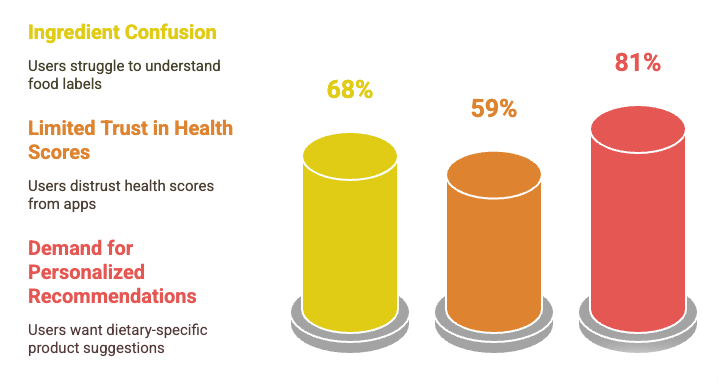
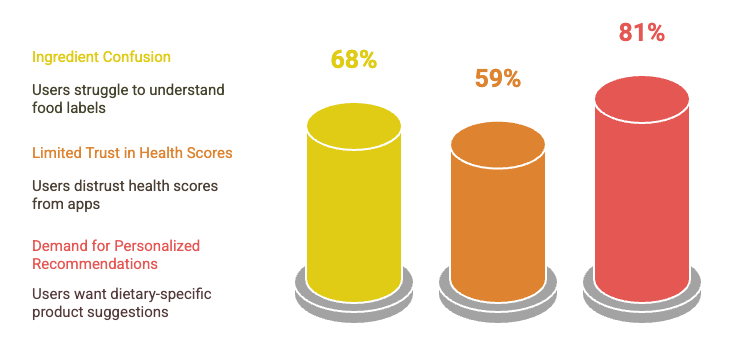
commit

diff --git a/orbitscan.html b/orbitscan.html
@@ -88,7 +88,7 @@
 
         
         <div class="header-content">
-            <h1>ORBIT SCAN</h1>
+            <h1 style="font-size: 40px; font-family:Verdana, Geneva, Tahoma, sans-serif">ORBIT SCAN</h1>
             <h3> Helping shoppers make smarter food choices with a quick barcode scan.</h3>
             <p><strong>Timeline - </strong> 3 months</p>
             <p class="tools"><strong>Tools - </strong>Figma, Photoshop, Google Forms</p>
@@ -105,7 +105,7 @@
         
 
         <section class="overview">
-            <h2 style="font-size: 36px;">Background</h2>
+            <h2 style="font-size: 36px;">BACKGROUND</h2>
             
             <section style="display: flex; flex-wrap: wrap; align-items: flex-start; justify-content: space-between; gap: 1rem;">
 
@@ -132,22 +132,24 @@
             
 
         <section class="the-problem">
-            <h2 style="font-size: 36px;">The Problem</h2>
+            <h2 style="font-size: 36px;">THE PROBLEM</h2>
         
-                <p><strong>Ever stood in a grocery aisle, feeling overwhelmed by:</strong></p> 
-               
+              
+<h4 style="font-size: 30px;">Ever stood in a grocery aisle, feeling overwhelmed by:</h4> 
                     <li>Confusing ingredient lists? </li>
                     <li>Hard-to-read nutrition labels?</li>
                     <li>Spent time Googling food additives, but still unsure if a product is right for you or your family?</li>
                     <li>For many shoppers especially those with dietary restrictions, making informed choices quickly is a daily challenge.</li>
        
-                    <h3 style="font-size: 20px;">SOLUTION</h3>
+                    
+<h4 style="font-size: 30px;">Solution</h4>
                 <p>OrbitScan was created to solve this problem by:</p> 
                 <li>Allowing users to scan any food product.</li>
                 <li>Instantly delivering clear, easy-to-understand health insights and recommendations</li>
                 <li>The app turns complex nutritional data into simple, actionable guidance.</li>
                 
-                <h3 style="font-size: 24px;">PROJECT GOAL</h3>
+               
+<h4 style="font-size: 30px;">Project Goal</h4>
                 
                 <p class="read-more-paragraph">
                 The goal of this project was to design a mobile app that helps people quickly understand what’s in the food products they buy while grocery shopping. 
@@ -163,7 +165,7 @@
         </section>
 
         <section class="our-approach">
-            <h2 style="font-size: 36px;">🔷 Design Process: Double Diamond Framework</h2>
+            <h2 style="font-size: 36px;">🔷 DESIGN PROCESS: Double Diamond Framework</h2>
 
             <p>I used the Double Diamond approach to keep my design process user-focused and aligned with solving actual user pain points.</p>
             <div class="header-image">
@@ -240,7 +242,7 @@
 
         <h1 style="color: grey;">🔍 Discover</h1>
 
-        <h2 style="font-size: 36px;">📝 Quantitative Research (Survey Insights)</h2>
+        <h2 style="font-size: 36px;">📝 QUANTITATIVE RESEARCH (Survey Insights)</h2>
         
         <section style="display: flex; flex-wrap: wrap; align-items: flex-start; justify-content: space-between; gap: 1rem;">
 
@@ -270,12 +272,12 @@
             
               <!-- Image Right -->
               <div>
-                <img src="assets/img/Orbit/Takeaways Surveys.png" alt="Approach Diagram" style="width: 100%; height: 500px;" loading="lazy">
+                <img src="assets/img/Orbit/Takeaways Surveys.png" alt="Approach Diagram" style="width: 100%; height: 400px;" loading="lazy">
               </div>
             
             </section>
 
-        <h2 style="font-size: 36px;">🧭 Competitive Analysis</h2>
+        <h2 style="font-size: 36px;">🧭 COMPETITIVE ANALYSIS</h2>
             
         <section style="display: flex; flex-wrap: wrap; align-items: flex-start; justify-content: space-between; gap: 1rem;">
 
@@ -300,7 +302,8 @@
         
             
               <!-- Image Right -->
-              <p><strong>Competitive Feature Analysis</strong></p>
+              
+<h4 style="font-size: 30px;">Competitive Feature Analysis</h4>
               <div>
                 <img src="images/Competitive analysis.png" alt="Approach Diagram" style="width: 100%; height: 500px;" loading="lazy">
               </div>
@@ -308,7 +311,7 @@
             </section>
 
         <section class="visual-exploration">
-            <h2 style="font-size: 36px;">Qualitative Research (User Interviews)</h2>
+            <h2 style="font-size: 36px;">QUALITATIVE RESEARCH (User Interviews)</h2>
        <p><strong>Zoom Remote & In-person | 4 Participants</strong></p>
 
        <p>The goal was to gain a deeper understanding of how users shop for groceries, what challenges they face when interpreting product information, and how they make health-related decisions in the store. All participants shop for groceries regularly, and at least two have dietary restrictions that impact their buying choices.</p>
@@ -332,7 +335,7 @@
 
         <br>
 
-        <h3 style="font-size: 24px;">INSIGHTS FROM USER INTERVIEWS</h3>
+        <h4 style="font-size: 30px;"> Insights From Interviews</h4>
 
         <p>This qualitative research was conducted with 4 participants, using semi-structured interviews. The questions focused on shopping behavior, product comparison habits, decision-making confidence, and openness to personalization.</p>
 <p>Insights were synthesized using affinity mapping to uncover key user pain points and opportunities for OrbitScan. The responses showed strong thematic saturation in three core areas: decision-making challenges, transparency and trust, and personalization needs.</p>
@@ -362,11 +365,11 @@
                 <br>
 
                 <h1 style="color: grey;">🔍 Define</h1>
-<h4 style="font-size: 30px;"> 🧭 WHO ARE WE DESIGNING FOR? </h4>
+                <h2 style="font-size: 36px;"> 🧭 WHO ARE WE DESIGNING FOR? </h2>
 <p>The individuals I interviewed are graduate students as well as parents managing household grocery shopping. Each of them shops for groceries at least once a week and has experience using apps such as MyFitnessPal or Google to research food products. Most shared challenges around reading food labels, interpreting nutrition data, and making confident product decisions—especially when managing allergies, switching diets, or trying to eat healthier on a student budget.</p>
 <p>One key persona that emerged is Stephanie — a busy, health-conscious mom juggling family needs, limited time, and a desire to make informed food choices.</p>
 
-                <h3 style="font-size: 24px;">PERSONA</h3>
+<h4 style="font-size: 30px;">Persona</h4>
                 <div class="header-image">
                     <img src="images/User Persona3.png" alt="Persona Diagram">
                 </div>
@@ -383,15 +386,6 @@
             <div class="header-image">
                 <img src="images/userflow_os.png">
         </section>
-
-    
-
-       <!-- <section class="user-flow">
-            <h2 style="font-size: 36px;">User Journey</h2>
-            <br>
-            <div class="header-image">
-                <img src="images/User Journey.png">
-        </section>-->
 
 
         <br>
